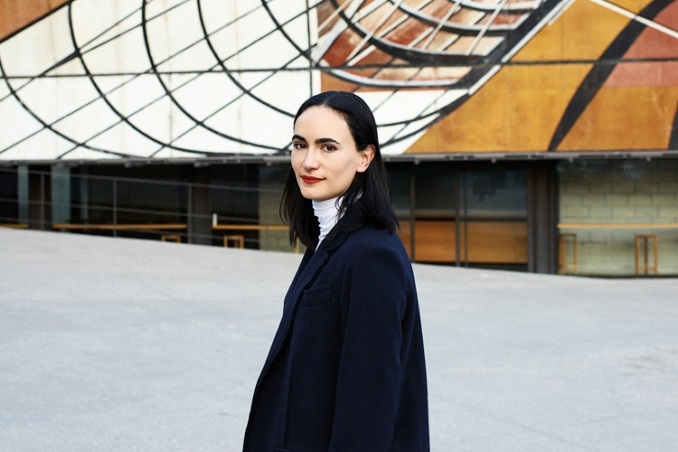
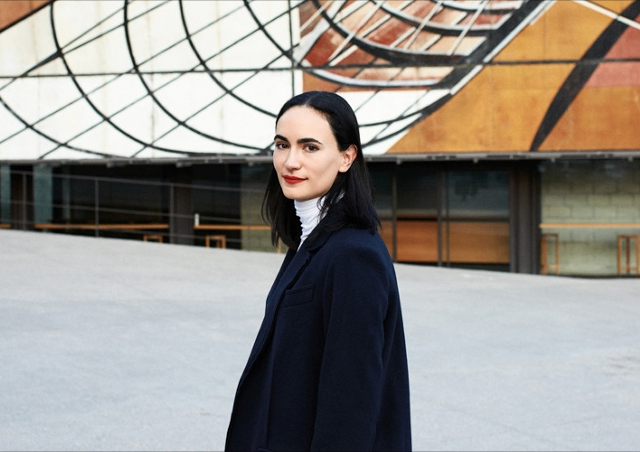
Adjusted positioning of section-bars

diff --git a/html5-boilerplate_v5.3.0 (4)/css/main.css b/html5-boilerplate_v5.3.0 (4)/css/main.css
@@ -110,6 +110,8 @@ body {
     line-height: 1.4em;
     min-width: 1200px;
     background: #f8f8f8;
+    padding: 0em;
+    border: 1px solid red;
 }
 
 /* Top Bar */
@@ -221,9 +223,9 @@ header h1 {
     display: none;
     position: absolute;
     text-align: left;
-    left: -6em;
-    font-size: .8em;
+    left: -4.5em;
     width: 190px;
+    font-size: .8em;
     padding: 1.5em;
     font-size: 1em;
     background: #f8f8f8;
@@ -281,6 +283,7 @@ header h1 {
 
 .slideshow {
     margin-top: 4em;
+    border: 1px solid red;
 }
 
 .slideshow .main-image {
@@ -292,13 +295,13 @@ header h1 {
 }
 
 .slideshow .main-image img {
-    display: block;
+    width: 100%;
 }
 
 .slideshow .main-image figcaption {
     position: absolute;
     bottom: 0;
-    width: 50%;
+    width: 100%;
     padding: 1em;
     background: hsla(359, 0%, 0%, 0.4);
     color: #fff;
@@ -335,9 +338,8 @@ header h1 {
 
 .section-bar {
     clear: both;
-    position: relative;
-    margin-bottom: 4em;
     line-height: 2em;
+    position: relative;
 }
 
 .section-bar ul {
@@ -347,33 +349,45 @@ header h1 {
 
 .section-bar li {
     display: inline-block;
+    padding: 1em;
 }
 
 .section-bar a {
     text-decoration: none;
+    color: #000;
 }
 
-#left-link {
+.left-link {
   position: absolute;
   top: 0px;
-  left: 100px;
+  left: 115px;
+  font-size: .7em;
 }
 
-#center-link {
+.center-link {
     position: absolute;
-    top: 0px;
+    left: 50%;
+    top: 50%;
+    transform: translate(-70%, -20%);
 }
 
-#right-link {
+.center-link a {
+    padding-bottom: .3em;
+    border-bottom: 2px solid black;
+}
+
+.right-link {
     position: absolute;
-    top: 0px;
-    right: 100px;
+    right: 0%;
+    top: 50%;
+    transform: translate(-65%, -20%);
 }
 
 /* Stories */
 
 .main-content {
     clear: both;
+    margin-top: 7em;
     margin-left: 10em;
     margin-right: 10em;
 }
@@ -384,6 +398,7 @@ header h1 {
     padding-left: .5em;
     padding-right: .5em;
     height: 32em;
+    margin-bottom: 2em;
 }
 
 .story img {
@@ -424,18 +439,20 @@ header h1 {
 
 .city-guides {
     position: absolute;
-    top: 0;
-    left: 150px;
-    width: 1200px;
+    top: 0%;
+    left: 50%;
+    transform: translate(-40%, 0%);
+    width: 100%;
+    margin-top: 7em;
 }
 
 .thumbnail {
-    width: 10em;
+    width: 12.2em;
     float: left;
     margin: 1em;
     background: #e3e3e3;
     line-height: .8em;
-    height: 11.75em;
+    height: 13em;
 }
 
 .thumbnail img {
@@ -460,7 +477,7 @@ header h1 {
 
 footer {
     clear: both;
-    margin-top: 20em;
+    margin-top: 25em;
     background: #e3e3e3;
 }
 

diff --git a/html5-boilerplate_v5.3.0 (4)/index.html b/html5-boilerplate_v5.3.0 (4)/index.html
@@ -68,7 +68,7 @@
 
       <section class="slideshow">
         <figure class="main-image">
-          <img src="img/portrait.jpg" alt="architect">
+          <img src="img/portrait2.jpg" alt="architect">
           <figcaption>
             <h3>Interview / Issue 19</h3>
             <h2>A Day in the Life: Frida Esobedo</h2>
@@ -78,7 +78,7 @@
         </figure>
 
          <figure class="main-image">
-         <img src="img/wreckingball.jpg" alt="wrecking ball">
+         <img src="img/wreckingball2.jpg" alt="wrecking ball">
           <figcaption>
             <h3>Essay / Issue 19</h3>
             <h2>In Anxious Anticipation</h2>
